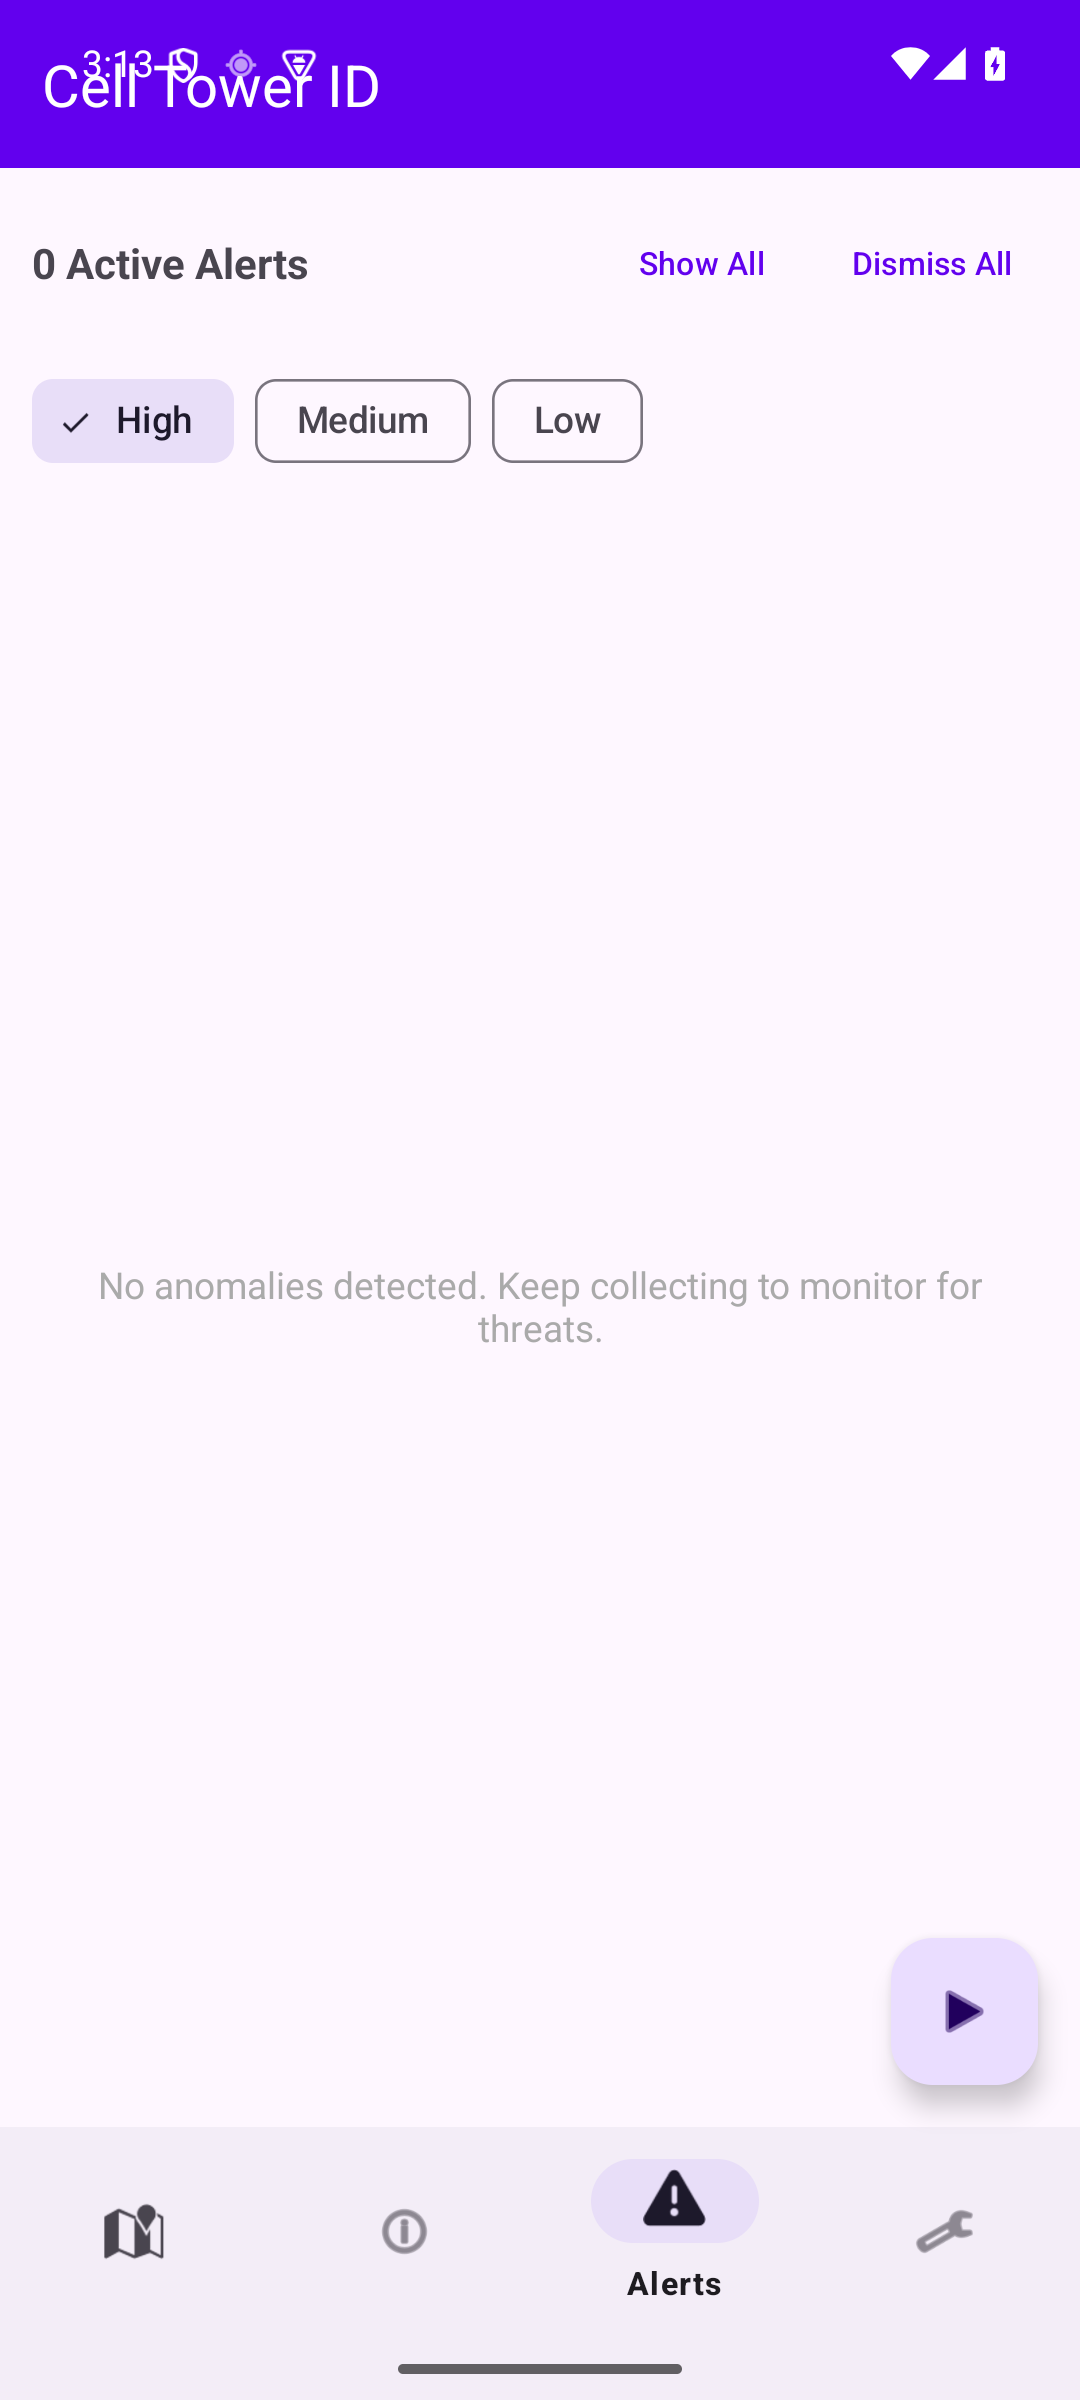
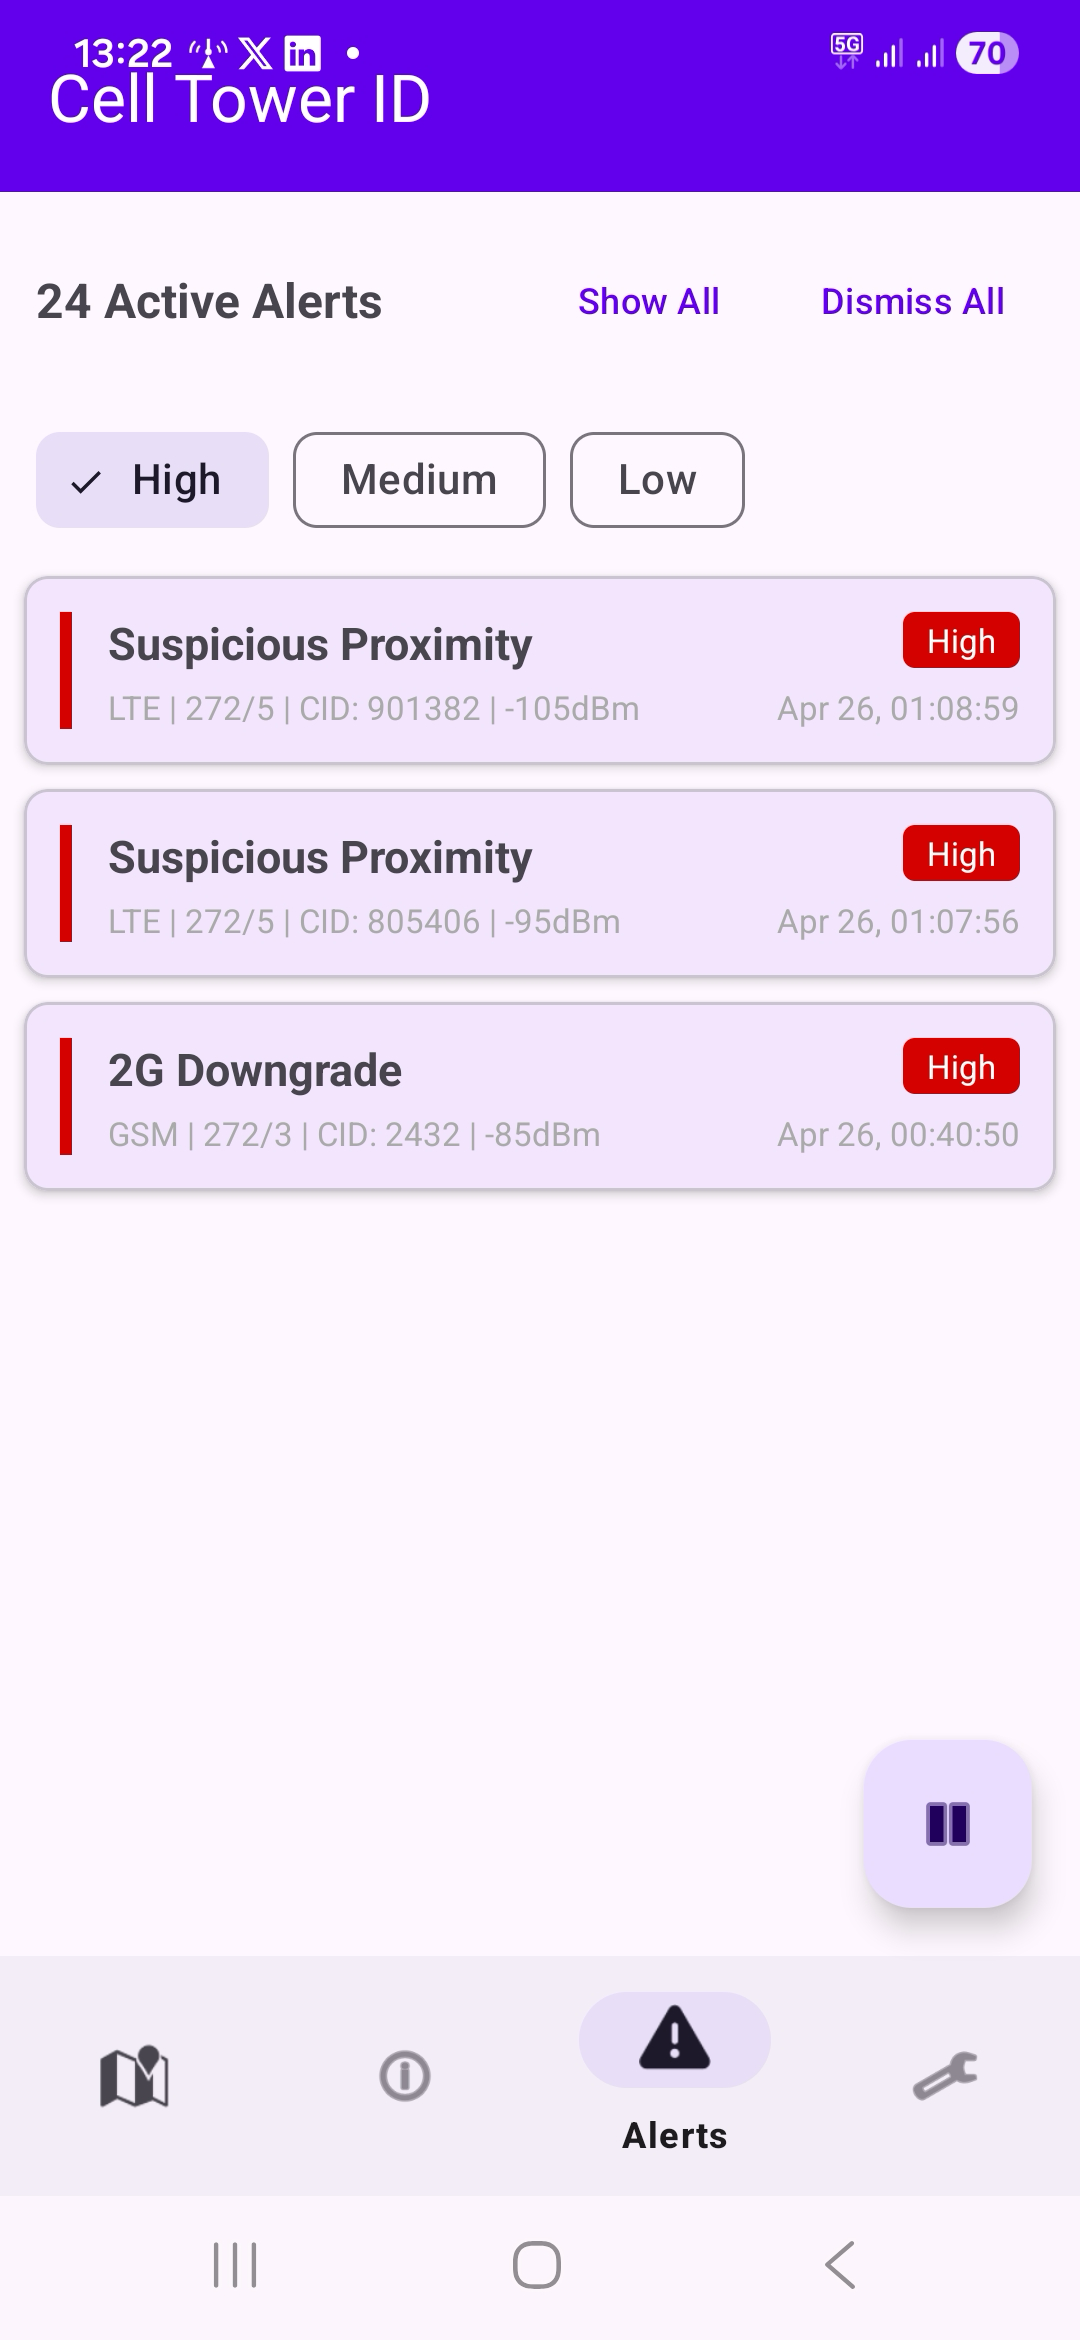
Add device screenshots and swap website alerts shot for populated high-alerts view
The website's 04_alerts.png was an empty-state placeholder; replace with a
real High-severity alerts list showing Suspicious Proximity and 2G Downgrade
detections, and update the alt text accordingly. Also commit the underlying
screenshot library so future website refreshes have a tracked source.

diff --git a/website/index.html b/website/index.html
@@ -169,7 +169,7 @@
             <figcaption class="gallery-caption">Cell list</figcaption>
           </figure>
           <figure class="gallery-item" role="listitem">
-            <img src="assets/screenshots/04_alerts.png" alt="Alerts tab showing High, Medium, and Low severity filters" loading="lazy">
+            <img src="assets/screenshots/04_alerts.png" alt="Alerts tab showing High-severity anomalies including Suspicious Proximity and 2G Downgrade detections" loading="lazy">
             <figcaption class="gallery-caption">Alerts</figcaption>
           </figure>
           <figure class="gallery-item" role="listitem">
